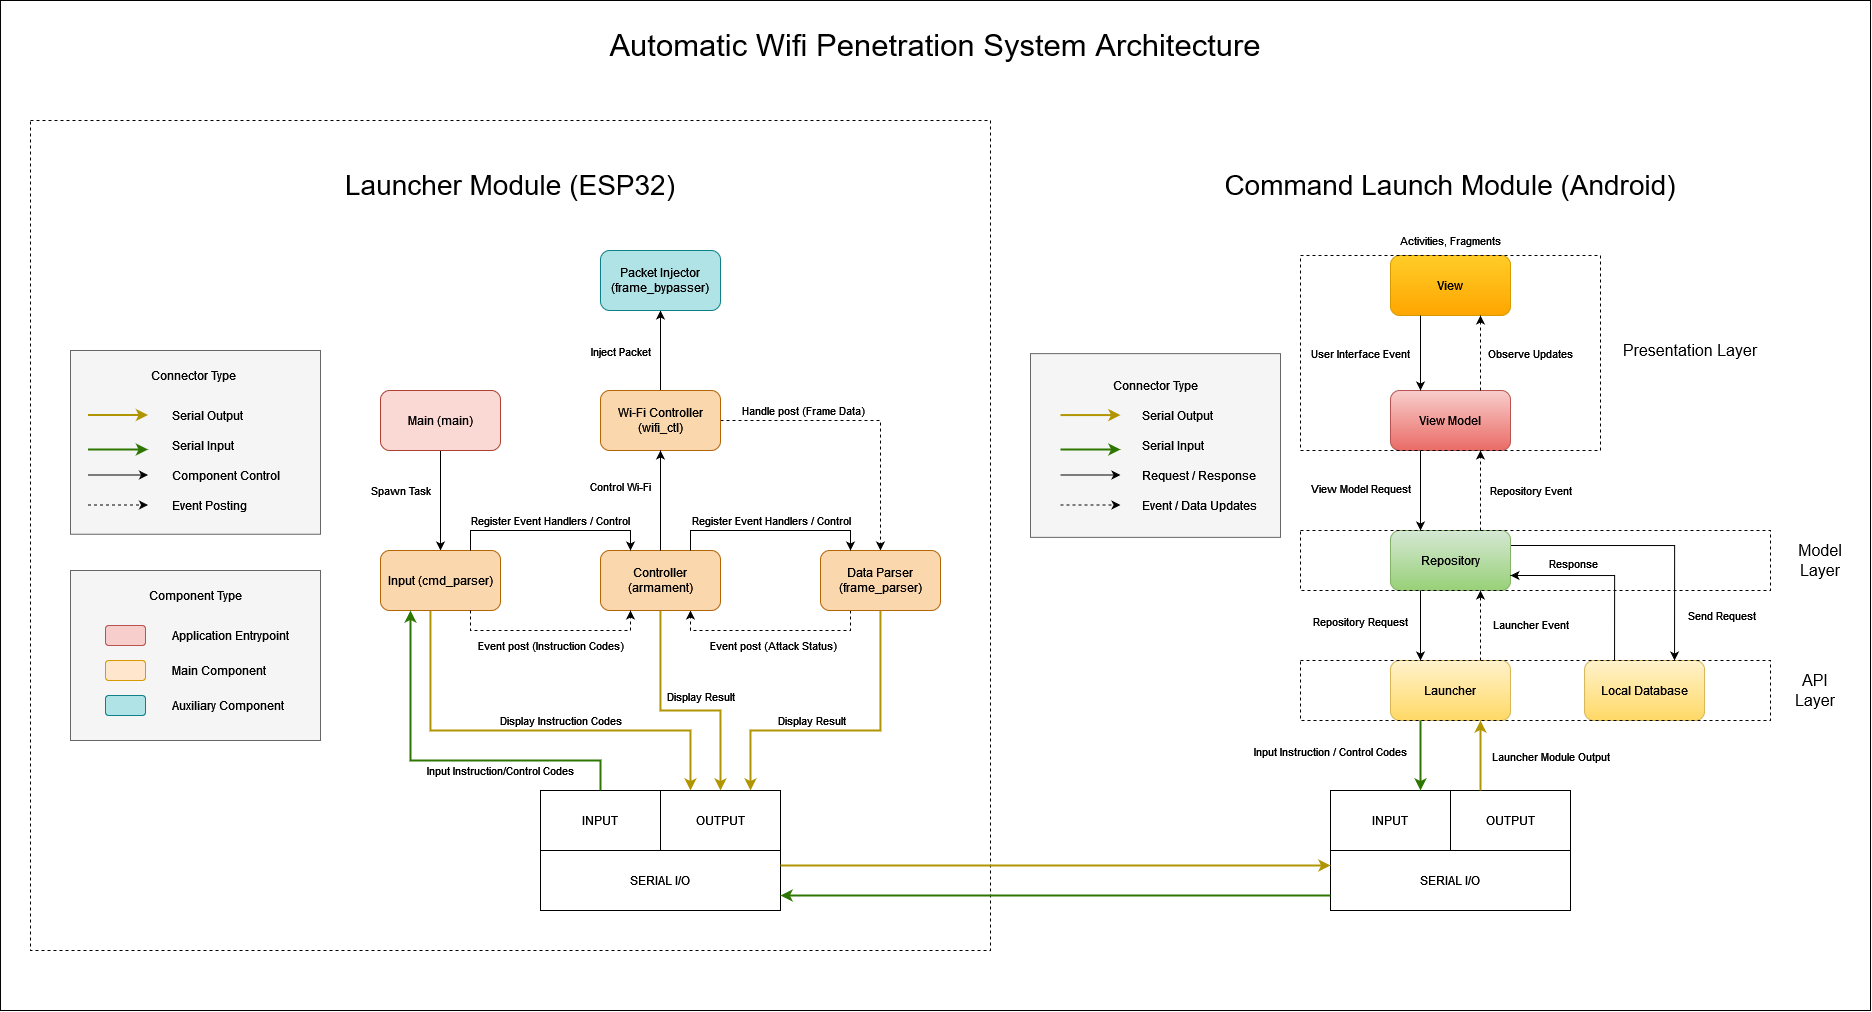
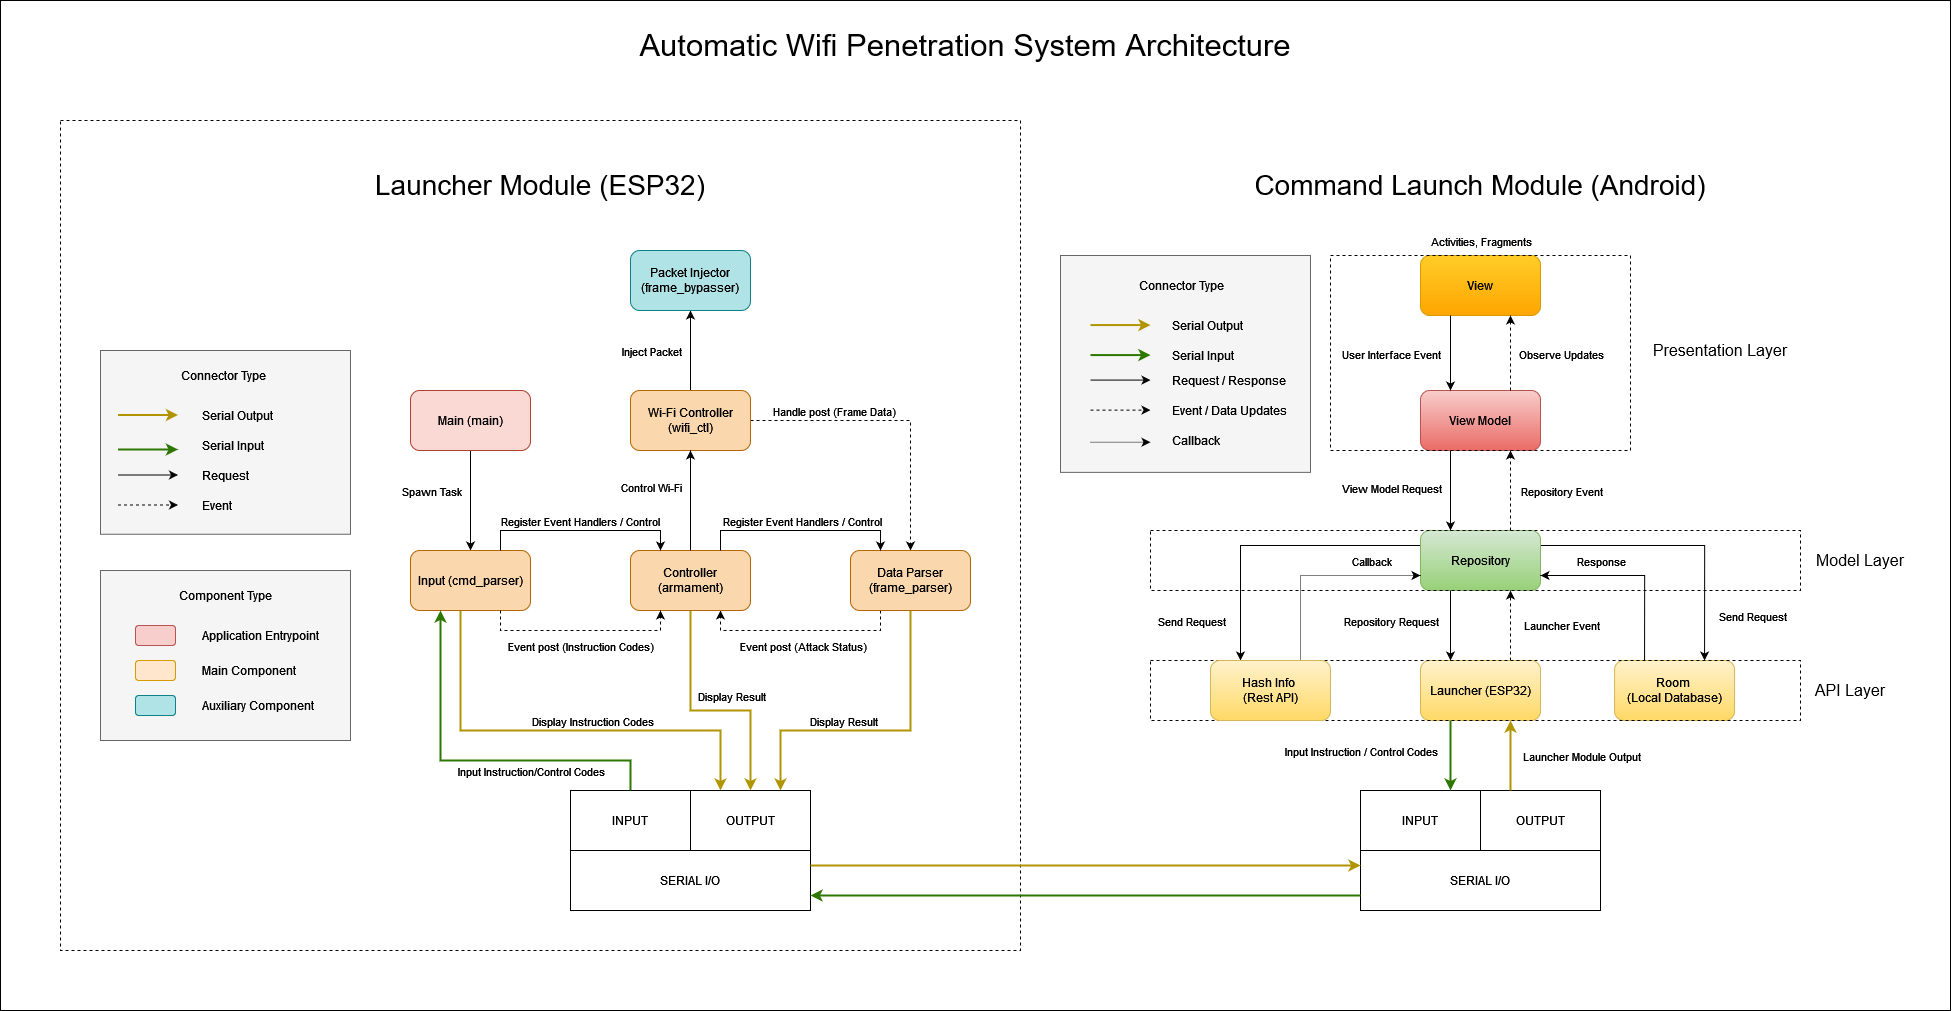
Update readme and documentation

diff --git a/README.md b/README.md
@@ -1,14 +1,13 @@
 # AWPS (Automatic Wi-Fi Penetration System) Launcher Module
 
-In an age where wireless connectivity reigns supreme, the security of our wireless networks has become paramount. Enter the Automatic WiFi Penetration System, or AWPS, a creative solution designed to penetrate most Wifi enabled devices that is using WPA2. AWPS leverages the formidable capabilities of the ESP32 microcontroller to perform a crucial task in penetrating a Wifi network: capturing critical data elements when a STA initiated authentication with the AP. 
-
+Automatic WiFi Penetration System, or AWPS is a software designed to penetrate most Wifi enabled devices that is using WPA2. AWPS leverages the formidable capabilities of the ESP32 microcontroller to perform a crucial task in penetrating a Wifi network: capturing critical data elements when a STA initiated authentication with the AP. 
 Capturing critical data elements, the PMKID and MIC enables us to conduct offline brute force attacks, facilitating the identification of the PSK.
 
 ## Launcher Module
 
 The ESP32 microcontroller, serving as our Launcher Module, assumes the pivotal role of executing attacks upon receiving command inputs via serial communication. It offers two control modes: direct serial user input commands or through a high-level command and control module. As the Launcher Module prioritizes simplicity, it refrains from validating user input commands. Therefore, for optimal functionality, it is recommended to pair the Launcher Module with an external command and control module.
 
-The AWPS Command Launch Module is a command and control module that stands as an Android application software meticulously crafted to offer a simple interface facilitating seamless interaction with the Launcher Module. This application boasts a user-friendly interface that empowers users to initiate attacks with a single click, closely monitor the status of ongoing operations, and efficiently organize the comprehensive data accrued during each penetration session. The Command Launch Module facilitates automated operation in penetrating the Wi-Fi device. A Command Launch Module, in general parlance, refers to a command and control device designed to exercise control over the launcher module. This Command Launch Module may take the form of a software application compatible with Android, iOS, or Windows platforms.
+The AWPS Command Launch Module is a command and control module that stands as an Android application software meticulously crafted to offer a simple interface facilitating seamless interaction with the Launcher Module. This application has a user-friendly interface that assists users to initiate attacks with a single click, closely monitor the status of ongoing operations, and efficiently organize the comprehensive data accrued during each penetration session. The Command Launch Module facilitates automated operation in penetrating the Wi-Fi device. A Command Launch Module, in general parlance, refers to a command and control device designed to exercise control over the launcher module. This Command Launch Module may take the form of a software application compatible with Android, iOS, or Windows platforms.
 
 For a deeper dive into the Command Launch Module's capabilities and further insights, explore the repository here [INSERT REPO LINK].
 
@@ -18,6 +17,12 @@ For a deeper dive into the Command Launch Module's capabilities and further insi
 - **MIC Capture** although PMKID is a much better attack vector I also included the capability to capture the MIC which is found in the second message of the 4-way handshake when a STA initiates connection with the AP.
 - **Reconnaissance** scans nearby AP and outputs the SSID, channel and RSSI of the AP.
 - **Deauth** injects deauthentication frames within the AP, effectively terminating the connection between the STA and the AP.
+
+## How to Hack or Penetrate the Wi-Fi using AWPS and GPU
+
+<img src="docs/How-to-hack-the-Wi-Fi.png" alt="How to hack the Wi-Fi">
+
+Note: The android device presented in the story is the Command Launch Module, the Launcher Module is attached to the Command Launch Module. The actor in step 3 does not send an HTTP request to the Rest API server. The actor directly configures the GPU via a software by typing in the commands and or configuring the rules for brute force, selecting / managing which GPU to use, etc. The Rest API server is also not available in the public internet as stated in step 2, it is only available as a local Rest API server in the LAN. Its primary role is to transport hash from the AWPS mobile to the server. It does not provide any input data validation nor any best practices when it comes it Rest API security.
 
 ## Usage
 ### Instruction Codes
@@ -70,7 +75,8 @@ In this project, three hardware components are employed: an Android device, USB 
 
 - **[1] Android Phone** This project employs an Android device as the command and control interface for the launcher module. The interface features a dedicated application that establishes communication with the launcher module through a USB On-The-Go (OTG) connection. The application is configured with a minimum API level of 24 (Android 7.0) and a maximum API level of 33 (Android 13). It is important to note that the application has been thoroughly tested on physical devices running Android versions 8.1 and 11.
 - **[2] USB OTG (On The Go)** The USB On-The-Go (OTG) interface facilitates both power supply and data transmission, enabling seamless communication between the command and control module and the launcher module. The USB On-The-Go (OTG) cable can be extended to a greater length, enabling the discreet placement of the ESP32 microcontroller inside a pocket or bag.
-- **[3] ESP32-WROOM-32D** This project leverages the ESP32 microcontroller as the dedicated launcher module. This microcontroller hosts an application that actively monitors incoming instruction codes and subsequently initiates the corresponding armament procedures in accordance with the received instructions. The ESP32 microcontroller is available for purchase at a competitive price point, starting from as low as $3.34 (approximately ₱190). The ESP32 is a compact and portable microcontroller, designed to easily fit within a pocket or bag, thus facilitating the concept of inconspicuous penetration testing.
+- **[3] Micro USB Male to USB Male** The micro USB to USB male cable establishes a connection between the ESP32 device and a USB male port.
+- **[4] ESP32-WROOM-32D** This project leverages the ESP32 microcontroller as the dedicated launcher module. This microcontroller hosts an application that actively monitors incoming instruction codes and subsequently initiates the corresponding armament procedures in accordance with the received instructions. The ESP32 microcontroller is available for purchase at a competitive price point, starting from as low as $3.34 (approximately ₱190). The ESP32 is a compact and portable microcontroller, designed to easily fit within a pocket or bag, thus facilitating the concept of inconspicuous penetration testing.
 
 ## Software Architecture
 
@@ -79,6 +85,12 @@ In this project, three hardware components are employed: an Android device, USB 
 ## How to crack the PMKID or MIC to determine the PSK
 
 Neither the Command Launch Module nor the Launcher Module possesses the requisite capabilities to perform cryptographic cracking operations due to their limited computational power. For comprehensive information on optimizing the process of cracking, kindly refer to the crypto directory
+
+## DISCLAIMER
+
+The project AWPS is intended for educational purposes, with the primary goal of raising awareness and understanding of cybersecurity in a legal and ethical context. It is essential to clarify that this tool is NOT INTENDED to encourage or promote any form of unauthorized or unethical hacking activities. Ethical hacking, conducted with proper authorization and consent, plays a crucial role in enhancing the security of digital systems. This project seeks to promote responsible use of technology and responsible disclosure of vulnerabilities to help protect and secure digital environments.
+
+USAGE OF ALL TOOLS on this project for attacking targets without prior mutual consent is ILLEGAL. It is the end user’s responsibility to obey all applicable local, state, and federal laws. I assume no liability and are not responsible for any misuse or damage caused by this project or software.
 
 ## Glossary
 
@@ -92,7 +104,7 @@ Neither the Command Launch Module nor the Launcher Module possesses the requisit
 - **MIC (Message Integrity Code)** The MIC is a security feature used to ensure the integrity and authenticity of data frames in a Wi-Fi network.
 - **WPA2 (Wi-Fi Protected Access 2)** WPA2 is a security protocol used in Wi-Fi networks to secure wireless communication. It was introduced as an improvement over the earlier WPA (Wi-Fi Protected Access) standard.
 
-## References
+## More Information
 - https://en.wikipedia.org/wiki/PBKDF2
 - https://www.wifi-professionals.com/2019/01/4-way-handshake
 - https://hashcat.net/forum/thread-7717.html

diff --git a/crypto/README.md b/crypto/README.md
@@ -69,15 +69,21 @@ You can use the 'key_hierarchy_calculation.py' Python script to see how to calcu
 
 ### PMKID Calculation
 ```shell
-python key_hierarchy_calculation.py PMKID
+python key_hierarchy_calculation.py PMKID debug
 ```
-Note: Make sure to put the necessary information in the pmkid.yaml file
+Note: Make sure to put the necessary information in the pmkid.yaml file if prod is set or pmkid_debug.yaml if debug is set
 
 ### MIC Calculation
 ```shell
-python key_hierarchy_calculation.py MIC
+python key_hierarchy_calculation.py MIC prod
 ```
-Note: Make sure to put the necessary information in the mic.yaml file
+Note: Make sure to put the necessary information in the mic.yaml file if prod is set or pmkid_debug.yaml if debug is set. It is also important to remember that the script is used in conjuction with the module_test.py in the test directory. The module_test.py processes the output from the ESP32 where it will generate a mic.yaml or pmkid.yaml file to store the information from the EAPOl. The key_hierarchy_calculation.py will take this information and calculates the PMKID or MIC. A MIC or PMKID must be provided in the yaml file, it will compare this calculated PMKID or MIC, if it matches then the launcher and its output is working as expected. Also to calculate the correct PMKID or MIC, a PSK or the plain text password must be provided in the yaml file.
+
+## DISCLAIMER
+
+The project AWPS is intended for educational purposes, with the primary goal of raising awareness and understanding of cybersecurity in a legal and ethical context. It is essential to clarify that this tool is NOT INTENDED to encourage or promote any form of unauthorized or unethical hacking activities. Ethical hacking, conducted with proper authorization and consent, plays a crucial role in enhancing the security of digital systems. This project seeks to promote responsible use of technology and responsible disclosure of vulnerabilities to help protect and secure digital environments.
+
+USAGE OF ALL TOOLS on this project for attacking targets without prior mutual consent is ILLEGAL. It is the end user’s responsibility to obey all applicable local, state, and federal laws. I assume no liability and are not responsible for any misuse or damage caused by this project or software.
 
 ## Glossary
 - **STA_MAC (Station Mac Address)** The mac address of the client that is connected to the AP
@@ -92,7 +98,3 @@ Note: Make sure to put the necessary information in the mic.yaml file
 - **TK1 and TK2 (Temporal Key 1 and 2)** These are symmetric keys used for encrypting and decrypting the data frames exchanged between the client and the access point.
 - **HMAC_SHA1_128 (Hash-Based Message Authentication Code Secure Hash Algorithm 1)** Specific hash-based message authentication code (HMAC) algorithm that uses the SHA-1 (Secure Hash Algorithm 1) hash function with a 128-bit output.
 - **HMAC_SHA1 (Hash-Based Message Authentication Code Secure Hash Algorithm 1)** Method of creating a keyed hash value that is used for message authentication and integrity verification in cryptography.
-
-## Disclaimer
-
-These processes, while discussed here for educational purposes, should be conducted within the boundaries of legal and ethical considerations, with the appropriate permissions and in compliance with relevant laws and regulations.

diff --git a/test/README.md b/test/README.md
@@ -1,6 +1,6 @@
 ## Launcher Module Testing
 
-The script `module_test.py` serves the purpose of validating the accuracy and correctness of the Launcher Module. It accomplishes this by extracting pertinent data, such as MIC and PMKID, from the output of the module, and subsequently creating a YAML file for storing the output. The extracted information within this YAML file can then be accessed and processed by the script `key_hierarchy_calculation.py`, situated in the crypto directory.
+The script `module_test.py` serves the purpose of validating the accuracy and correctness of the Launcher Module. It accomplishes this by data, such as MIC and PMKID, from the output of the module, and subsequently creating a YAML file for storing the output. The extracted information within this YAML file can then be accessed and processed by the script `key_hierarchy_calculation.py`, situated in the crypto directory.
 
 Within the `key_hierarchy_calculation.py` script, the system performs key computations, resulting in the generation of essential cryptographic keys, namely the PMK, PTK, and MIC or PMKID.  If the calculated MIC or PMKID aligns with the corresponding output, the Launcher Module is working as expected.
 
@@ -8,9 +8,17 @@ Within the `key_hierarchy_calculation.py` script, the system performs key comput
 ```shell
 pip install pyserial
 pip install serial
+pip install PyYaml
 ```
 
 ### Launch the script
 ```shell
-python serial_com.py
+python module_test.py debug
 ```
+Where debug is set so that it knows which file it should store the output. If debug is set for example it will generate pmkid_debug.yaml or mic_debug.yaml in the crypto directory but if prod is set then it will generate pmkid.yaml or mic.yaml
+
+## DISCLAIMER
+
+The project AWPS is intended for educational purposes, with the primary goal of raising awareness and understanding of cybersecurity in a legal and ethical context. It is essential to clarify that this tool is NOT INTENDED to encourage or promote any form of unauthorized or unethical hacking activities. Ethical hacking, conducted with proper authorization and consent, plays a crucial role in enhancing the security of digital systems. This project seeks to promote responsible use of technology and responsible disclosure of vulnerabilities to help protect and secure digital environments.
+
+USAGE OF ALL TOOLS on this project for attacking targets without prior mutual consent is ILLEGAL. It is the end user’s responsibility to obey all applicable local, state, and federal laws. I assume no liability and are not responsible for any misuse or damage caused by this project or software.
